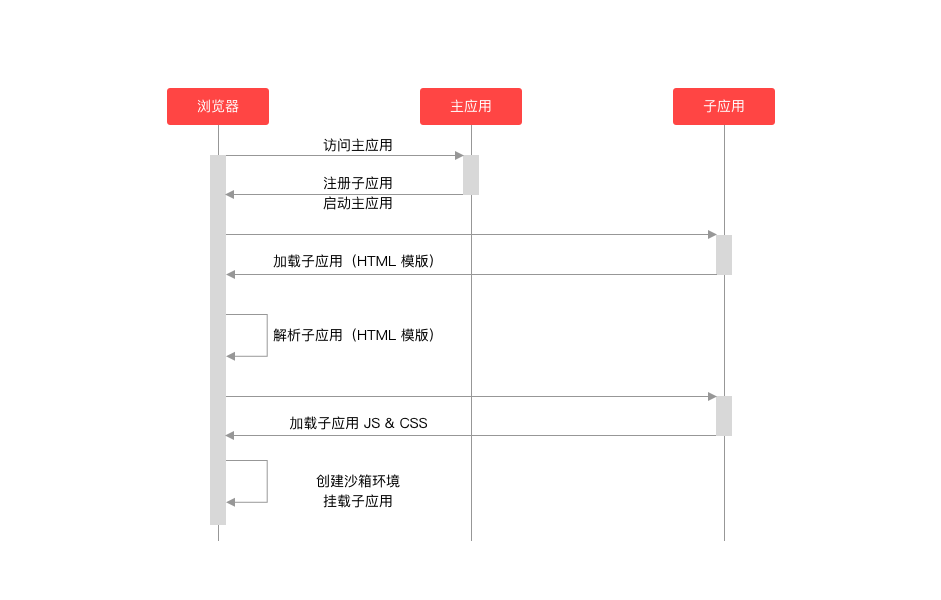
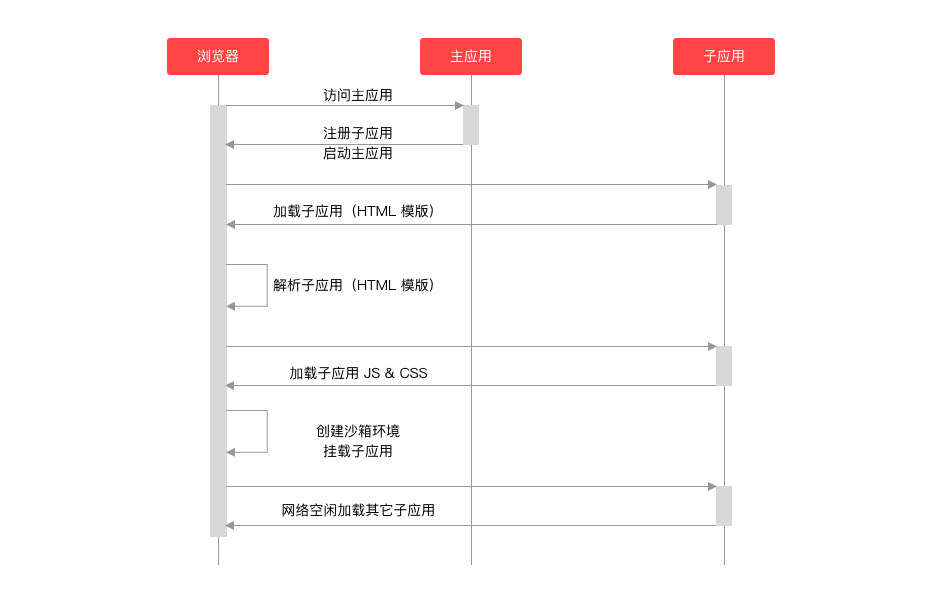
update

diff --git a/share/microfront4selling-lite.md b/share/microfront4selling-lite.md
@@ -1,0 +1,140 @@
+# 微前端技术在商羚商户端的实战
+商羚 SaaS 商城项目，依托京东核心电商技术与数据能力，帮助中小商家极速打造微商城、小程序商城，实现多渠道营销，精准广告投放，私域流量营销，入驻顶级海外电商平台，助力中小企业数智化转型。这是一款以流量渠道为核心、商业能力为抓手、技术与服务驱动的零售经营与增长的 SaaS 化综合解决方案。商羚商家端业务和交互也是非常的复杂，前端应用数量非常庞大，参与开发的团队也是非常多，我们需要寻求一种好的前端架构方案来支撑这一系统，微前端技术运用而生。
+
+## 一、什么是微前端
+借助 [Michael Geers](https://geers.tv/) 的一篇文章[《Micro Frontends》](https://micro-frontends.org/)所说：微前端是一种技术手段和策略，它可以让众多团队构建出独立开发、独立部署现代化 Web 应用。
+
+微前端的设计理念：
+* 与技术栈无关；
+* 中心化路由；
+* 独立开发、独立部署；
+* 简单接入；
+* 一致的开发体验；
+
+## 二、为什么要用微前端
+当拿到商羚这个项目时，我就在思考一个问题，如此庞大的系统，我们到底通过什么方式来让各个系统能够拆分开来，独立开发，独立运行，又能够无缝的融合在一个页面上展示出来。或许需要在系统建设的技术难度和用户体验上做平衡......
+
+### 不同方案对比
+
+| 对比    | iFrame  | 公共组件（NPM） | 微前端 |
+| :----- | :----- |:----- |:----- |
+| 技术难度  | 容易 | 中等 | 困难 |
+| 用户体验  | 差 | 中 | 好 |
+| 开发体验  | 好 | 差 | 好 |
+| 接入成本  | 好 | 中 | 好 |
+| 融合度  | 差 | 中 | 好 |
+| 升级成本  | 好 | 差 | 好 |
+
+**融合度：主应用和子应用，以及各个子应用之间融合程度，它们 CSS、JavaScript 以及 DOM 之间的融合**
+
+`iFrame` 虽然说技术难度低并且可靠度高，但是在体验上有致命的问题，这个方案被作为最后的选择；把各个拆分的项目引用公共头、尾和导航组件看似一个较好的解决方案，但是当公共组件一旦升级，往往各个拆分项目都要重新升级并上线，开发体验和升级成本大打折扣。微前端的确是一个可行并且体验够好的方案。
+
+## 三、微前端基本原理
+微前端分主应用和子应用，主应用主要是负责整个布局、注册子应用以及路由管理；子应用主要是按照业务拆分的独立的单页应用。
+
+### 3.1 运行原理
+微前端运行过程：
+* 浏览器访问主应用；
+* 主应用注册子应用；
+* 启动主应用；
+* 加载子应用；
+* 解析子应用；
+* 加载子应用资源；
+* 创建沙箱环境；
+* 挂载子应用；
+* 预加载其它子应用资源；
+
+![运用时序图](../resources/images/microfront-sequence.png?)
+
+### 3.2 路由规则
+由于微前端的子应用会在一级路由下被激活，激活后的路由将被对应的子应用框架接管。另外还要配合商羚左侧菜单的“点亮”功能，通过当前 `URL` 路径的解析是简单有效的。我们最终约定了一个简单的路由规则：
+* 每个子应用，对应一个业务模块，对应一级路由；
+* 减少菜单层级，次级菜单都打平二级菜单；
+* 子应用的相关页面（例如：订单查询有列表和详情），对应相同的二级路由；
+
+![路由](../resources/images/microfront-router.png?)
+
+### 3.3 应用隔离
+应用之间的隔离，是实现微前端核心的能力，前端应用隔离主要是两个方面，CSS 样式的隔离和 JavaScript 之间的隔离。
+
+#### CSS 样式隔离
+我们采用了以下两个方案：
+* 样式约定 + 工程化；
+* `Shadow DOM`；
+
+样式约定 + 工程化，这种方案非常简单可靠，各个子应用都约定自己的特有前缀，然后通过前端工程化工具 Webpack，在编译期对整体项目的样式做统一前缀处理。这种方案可以说是非常有效，并且比较好操作的方案，技术难度低，团队都能接受。
+
+`Shadow DOM`，这种方案可以说是完全彻底的解决了样式隔离，它通过游离在 DOM 树之外的 `Shadow DOM`，完全将 DOM 和 CSS 隔离开来，商羚现在使用的微前端框架本身就自带这一功能，但是由于浏览器兼容性问题，它是否可靠还有待进一步验证。
+
+![Shadow DOM](../resources/images/microfront-shadow-dom.png)
+
+#### JavaScript 沙箱隔离
+JavaScript 沙箱的实现方案有很多例如：`eval`、`new Function`、`Proxy` 等等，关于沙箱的实现我们可以专门找一个时间好好讲讲。在框架中，采用的是 ES6 的新特性 `Proxy` 实现的，当框架检测到浏览器不支持 `Proxy` 时，会降级到快照沙箱。
+
+代理沙箱（`ProxySandbox`），通过 `ES6` 的 `Proxy` 特性，对 `window`（全局环境） 的操作做记录，当子应用离开时我们把记录好的内容从 `window` 上卸载掉即可。快照沙箱（`SnapshotSandbox`），当浏览器不支持 `Proxy` 时，会启用快照沙箱，它会对将当前环境和原有环境进行对比，然后全量的恢复到原有环境，这种方式的缺点在于无法支持多个实例。
+
+![JavaScript 沙箱隔离](../resources/images/microfront-js-sandbox.png)
+
+### 3.4 应用之间通讯
+应用之间的通讯是必不可少的，主应用传递数据到子应用、子应用之间的数据传递，无非采用事件的方式来解决。
+
+其实浏览器自带有 `CustomEvent` ，它采用`发布/订阅模式`的设计，我们可以通过它创建一个自定义事件、监听事件并触发这个事件，达到应用之间的数据通讯。框架已经为我们准备好了基于 `props` 的通讯方式（类似于 React 中组件间通信的方案），主应用和子应用之间可以通过设置和监听全局状态，来相互传递信息。比较两种方式：
+* `CustomEvent`：原生支持，与框架松耦合；但是整体缺乏管理，应用之间事件名称会有冲突。
+* `initGlobalState`：通讯能力完全自定义；但是只能做到主、子应用之间的直接通讯。
+
+### 3.5 版本管理
+针对每次上线版本更新，我们从两个方面上保证用户能够使用到最新版本的子应用：
+
+* 通过工程化方式，让 JavaScript、CSS 资源文件每次更新文件名称会自动重命名，保持最新版本。
+* 通过 Nginx 让每次 HTML 模版的缓存失效，保持最新版本。
+
+我们通过对静态资源文件 Hash，从而检测到静态资源文件的变化，将文件名称变成 Hash 值，这样静态资源文件既能保持缓存、又能清除缓存。另外在 Nginx 上对模版 HTML 做了缓存清除，当然这种方式比较暴力，但模版本身体积不大，性能上也能容忍。其实最好的方式是通过配置：`Last-Modified`或者`E-Tag`来解决。
+
+### 3.6 性能
+微前端从本质上讲是一个 Web 应用，它仍然遵从 Web 前端性能优化的规则，无非就是：减小传输、打包传输、合理的加载顺序、利用缓存、网络层优化等等。
+
+*Preload 技术在微前端项目中优势尤为明显，微前端有很多子应用，它在网络空闲时间为微前端预先加载好子应用的静态资源，再加上 HTTP2.0 的多路复用加持，并行下载能力大大加强。当用户要使用到某个子应用时，资源已经准保好，不用下载，性能得到极大提升*
+
+### 3.7 总结一下技术
+微前端通过异步的加载子应用，并且解析子应用的 HTML 模版，将其资源文件运行于同一个页面，通过对 JavaScript 和 样式的隔离，将各个子应用独立运行互不干扰。应用之间可以选择多种方式进行通讯，达到数据的传递和同步，借助工程化和 HTTP 的资源缓存特点让应用保持最新版本。性能方面也是遵从 Web 前端性能优化准则，同时拥有简单的接入方式。从技术层面上讲，微前端在大型前端项目中，是值得尝试的。
+
+## 四、沉浸式体验
+多个应用之间的沉浸式体验，是微前端技术的巨大优势，虽然说微前端主张的与框架无关，但是我们还是需要在接入时给定一些规则，例如：UI 框架、路由规则、交互规则，这样可以让微前端的体验保持更好的一致性。虽然子应用自身部署在不同的服务器、拥有不同的域名、子应用也能够独立运行，但是它能够让各个子应用无缝的融合到同一个页面。商羚商家端内贸+外贸拥有多达 20 个前端系统，他们由不同团队开发，分布在不同的服务器和域名，最终给产品带来的是体验是：它们就在一个页面，只有一个域名：https://shop.selling.cn/ 。
+
+![商羚](../resources/images/microfront-experience.png)
+
+## 五、协同高效
+微前端架构，让主应用的拥有较强的扩展性，增加新的模块和页面，可以是我们自己、也可以是任意一个其它团队开、甚至是外部团队发出来的应用。商羚项目中，我们和成都团队的内贸售后、数据模块以及整个外贸部分，都是用微前端方式进行接入的，整个测试环境的联调只用了短短两天时间。
+
+微前端在项目协同上，能够做到：
+* 多个团队、独立开发。
+* 独立部署、独立运行。
+* 多个应用、无缝融合。
+
+## 六、问题和挑战
+微前端还是存在一些不足之处，当然框架本来就不能权衡所有问题，它是一个不断演变和发展的过程。
+
+* 多个子应用使用自己的技术栈，会导致浏览器加载很多框架和重复的代码，性能上由一定的影响。
+* 微前端让前端环境变得更加复杂了，开发调试过程难度提升。
+* 对于小型的项目，微前端优势不明显。
+
+## 七、未来
+微前端技术虽然已经在商羚商家端完成落地，但是还有很多值得改进的地方：
+
+* 子应用公共组件抽离：
+  子应用的公共组件和框架把它们抽离出来，在整个前端资源体积上会大大减少，性能也会随之优化。
+* 子应用可管理，随时添加：
+  未来如果子应用可以通过管理系统随时增加减少，不用上线，保证系统可运维、可管理。
+* 菜单路由前端缓存：
+  系统菜单数据做前端缓存是非常必要的，即便是菜单服务有问题，我们可以从缓存拿出数据保证高可用。
+* 商羚微前端脚手架：
+  为了能让更多第三方快速接入，我们需要一个开箱即用的微前端脚手架。
+* 灰度发布：
+  微前端灰度发布让上线过程更加的平滑、优雅，减少上线过程导致的业务问题。
+* 低代码开发：
+  未来我们希望在商羚微前端架构下开发一些常用功能，能够做到简单配置就能完成。
+
+## 再搞点事情（One more thing）
+商羚项目是一个正在茁壮成长的项目，我们从 0 到 1 用了短短不到三个月时间，技术团队也是做出了巨大的贡献。随着业务的增长，技术也需要不断的提高，也需要吸纳有想法、有能力的技术人才，所以欢迎你的加入，无论是前端还是后端，我们需要你！简历投递：tech-selling@jd.com
+
+![Join-us](../resources/images/microfront-joinus.png)
